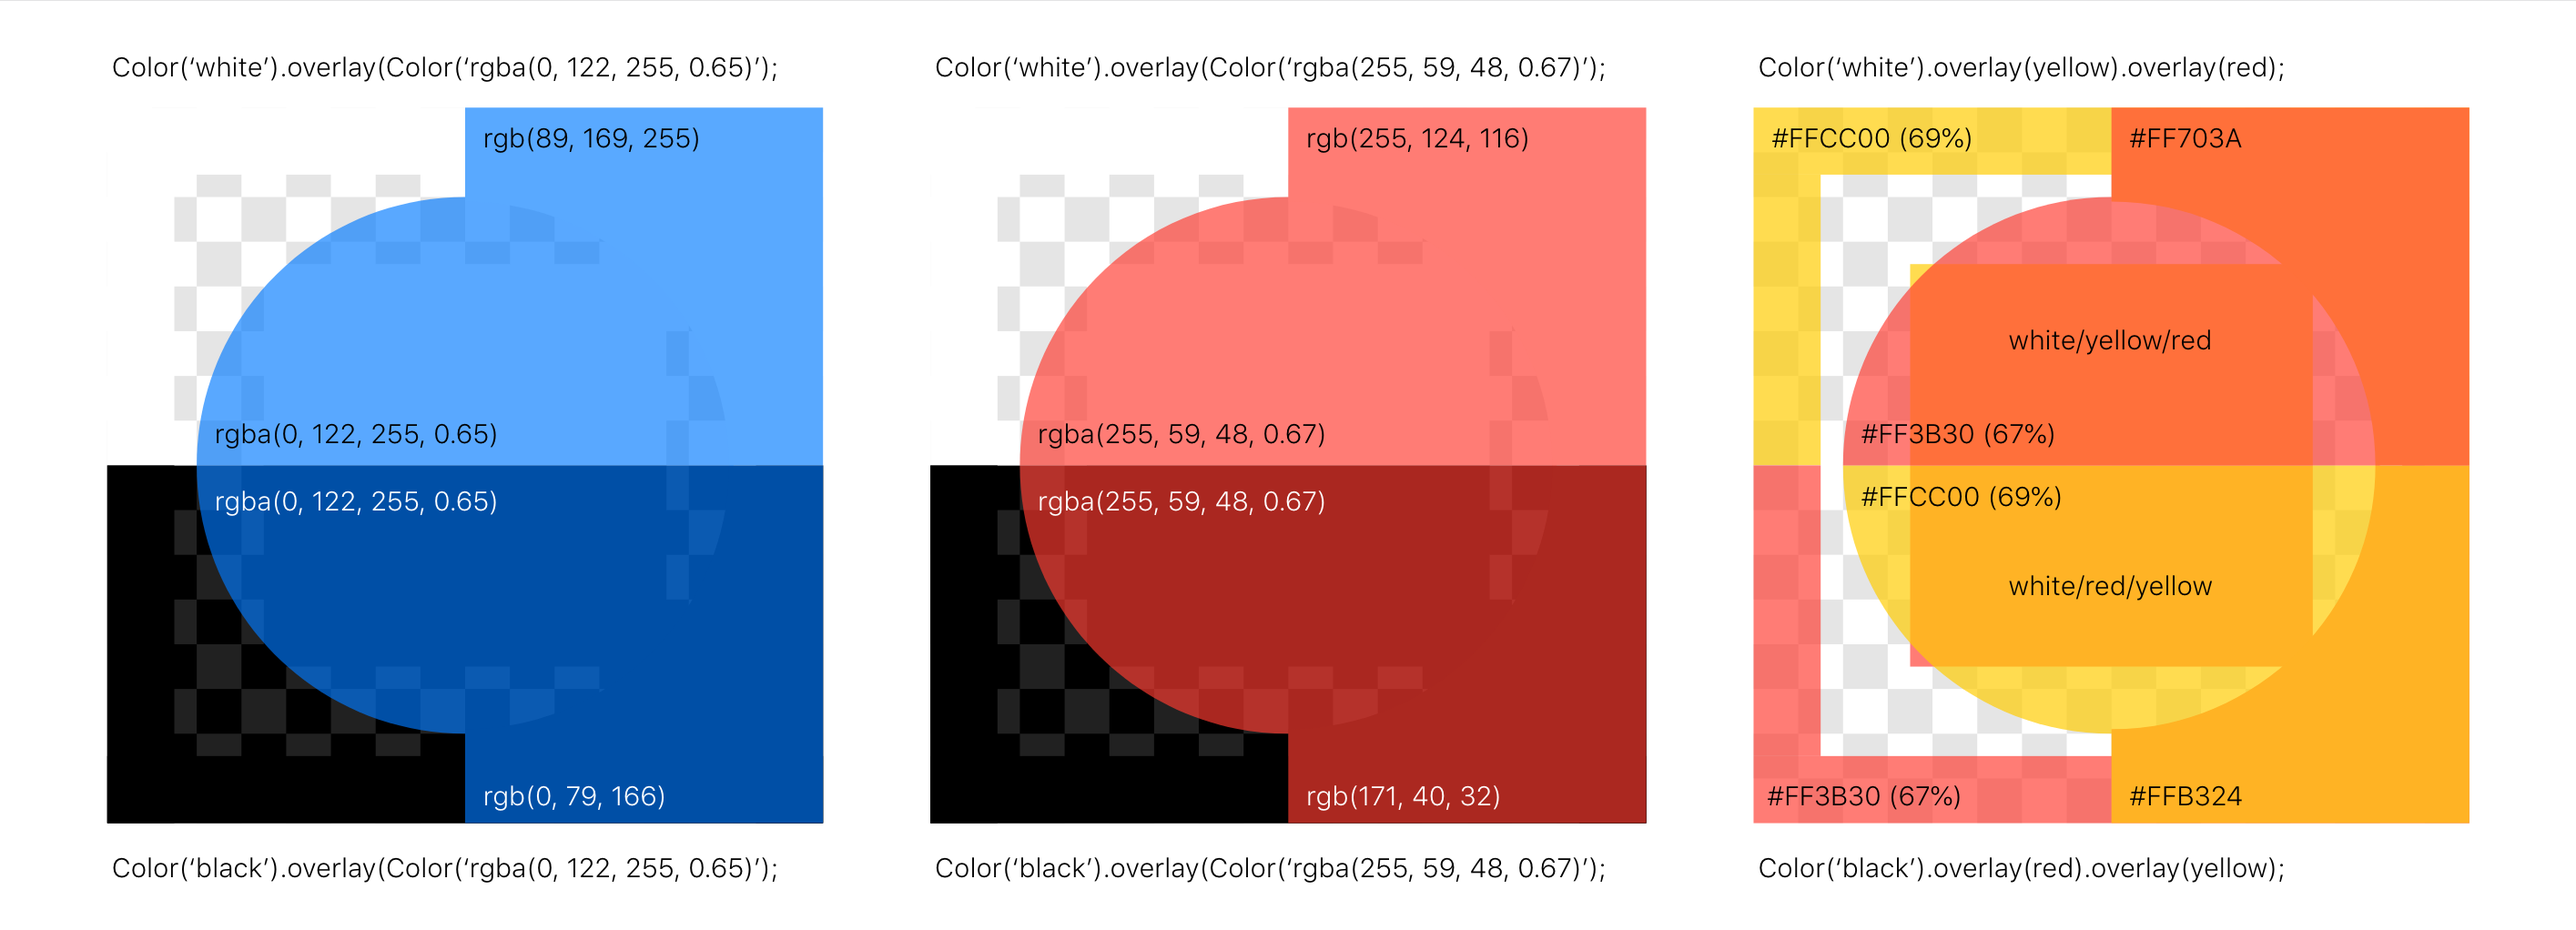
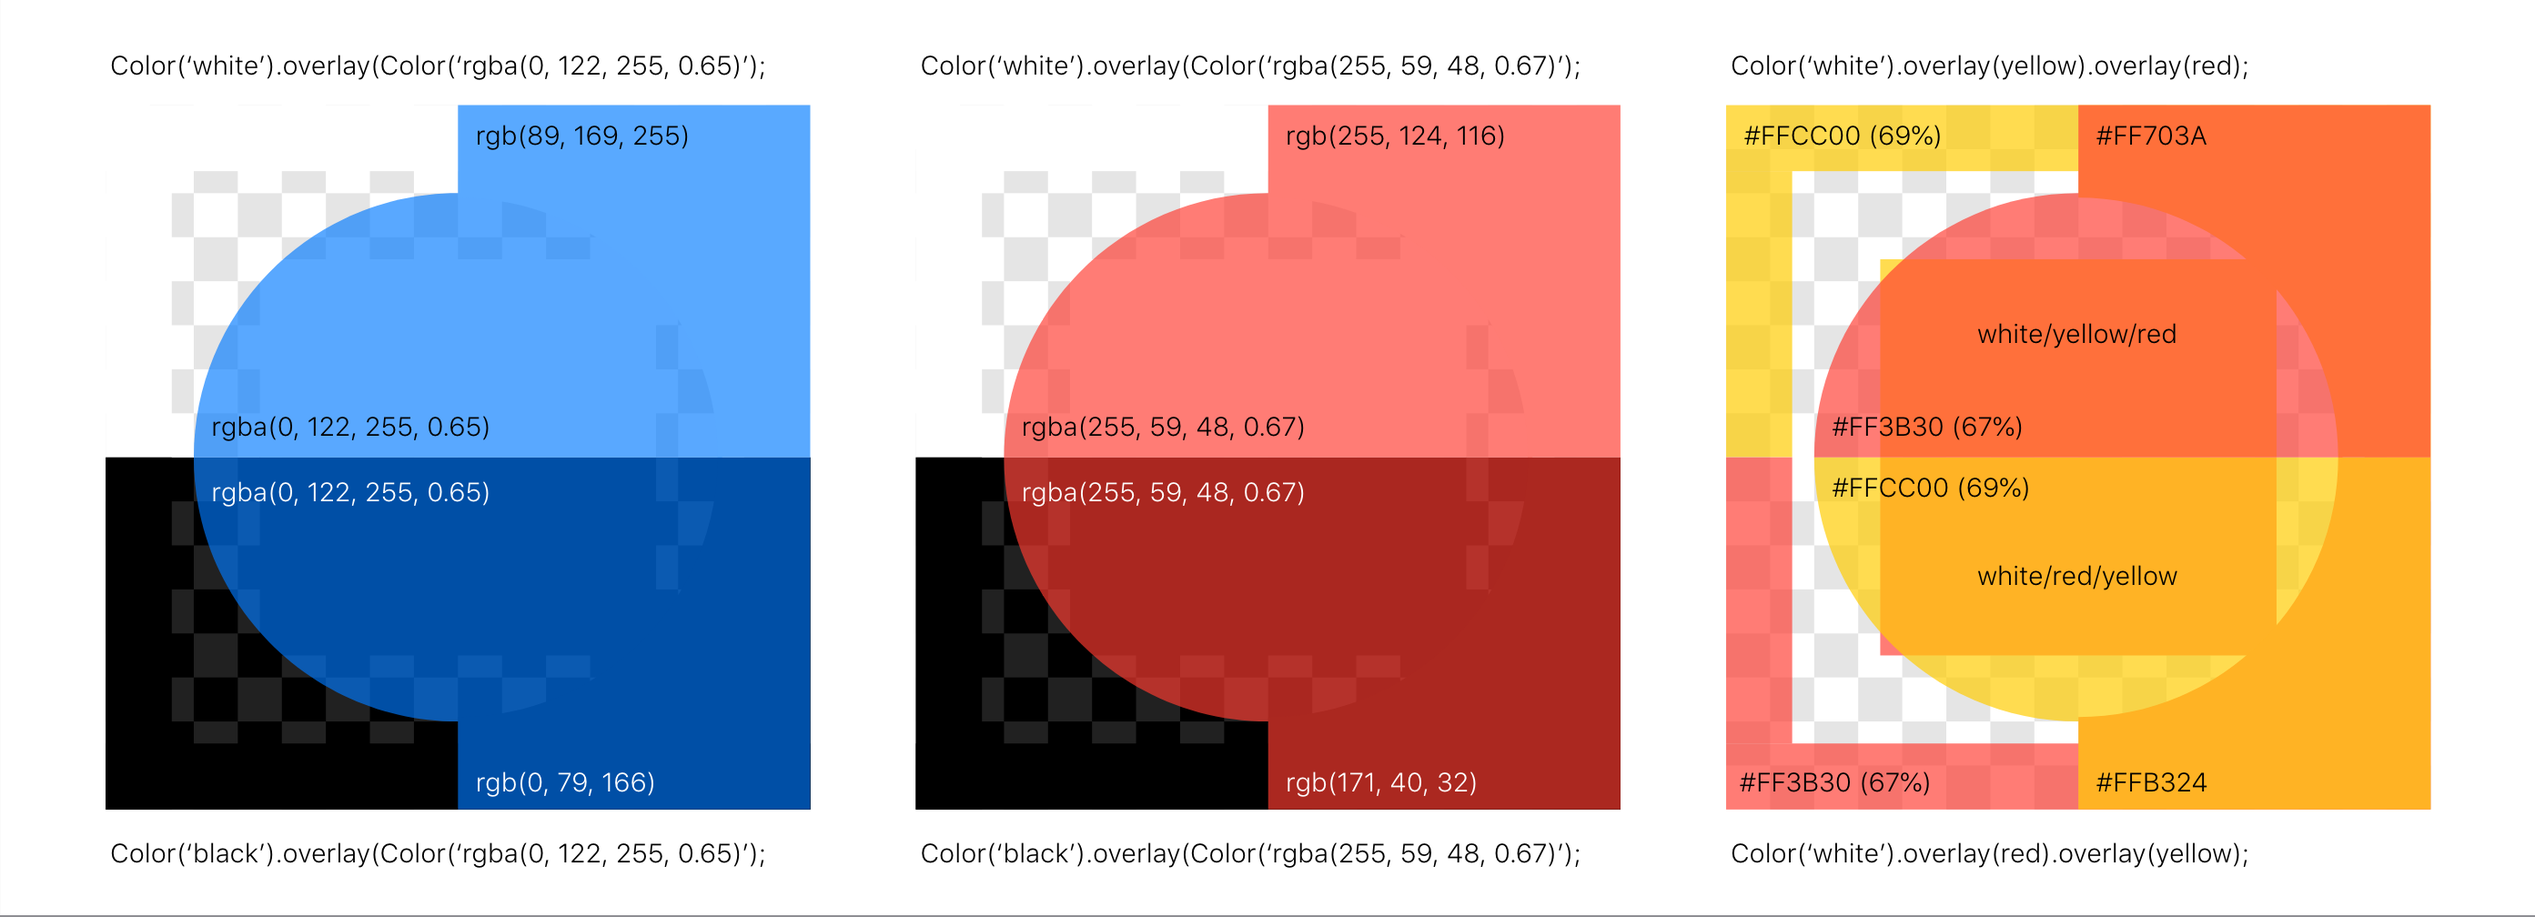
Edit readme

diff --git a/index.js b/index.js
@@ -390,14 +390,6 @@ Color.prototype = {
 		// alpha blending with gamma correction
 		// https://en.wikipedia.org/wiki/Alpha_compositing#Composing_alpha_blending_with_gamma_correction
 
-		if (typeof overlayColor === 'string') {
-			try {
-				overlayColor = Color(overlayColor);
-			} catch (error) {
-				console.log(error);
-			}
-		}
-
 		if (!overlayColor || !overlayColor.rgb) {
 			throw new Error('Overlay expected an instance of Color, but received an instance of ' + typeof overlayColor);
 		}

diff --git a/README.md b/README.md
@@ -121,37 +121,33 @@ color.green(100).grayscale().lighten(0.6)
 
 ### Overlay
 ```js
+Color(backgroundColor).overlay(Color(foregroundColor));
+```
+Implementation of Porter Duff source over compositing operator as per [W3C Compositing and Blending](https://www.w3.org/TR/compositing-1/#porterduffcompositingoperators_srcover).
+!(overlay illustration)[media/overlay.png]
+```js
 const transparentRed = 'rgba(255, 59, 48, 0.67)';
-const transparentBlue = 'rgba(0, 122, 255, 0.65)';
 const transparentYellow = 'rgb(255, 204, 0, 0.69)';
 
 Color('white').overlay(Color(transparentRed)); 
-// rgb(255, 255, 255) overlayed with rgba(255, 59, 48, 0.67) -> rgb(255, 124, 116)
+// White background overlayed with rgba(255, 59, 48, 0.67) -> rgb(255, 124, 116)
 
 Color('black').overlay(Color(transparentRed));
-// rgb(0, 0, 0) overlayed with rgba(255, 59, 48, 0.67) -> rgb(171, 40, 32)
-
-Color(transparentRed).contrast(Color('white')); // 3.547137959249039
-
-Color('white').overlay(Color(transparentRed)).contrast(Color('white')); // 2.508157178805863
-
-Color('black').overlay(Color(transparentRed)).contrast(Color('white')); // 6.893229382289893);
-
-Color('black').overlay(Color(transparentBlue)).rgb().string(0); // 'rgb(0, 79, 166)'
-
-Color('white').overlay(Color(transparentBlue)).rgb().string(0); // 'rgb(89, 169, 255)'
-
-Color(transparentBlue).contrast(Color('white')); // 4.016975780478911
-
-Color('white').overlay(Color(transparentBlue)).contrast(Color('white')); // 2.466814448364806
-
-Color('black').overlay(Color(transparentBlue)).contrast(Color('white')); // 7.847914944366607
-
+// Black background overlayed with rgba(255, 59, 48, 0.67) -> rgb(171, 40, 32)
+```
+Overlay returns a composite color that is an average of the background and foreground color weighted by the alpha values of each. 
+```js
+Color(transparentRed).contrast(Color('white')); // 3.5
+Color('white').overlay(Color(transparentRed)).contrast(Color('white')); // 2.5
+Color('black').overlay(Color(transparentRed)).contrast(Color('white')); // 6.9
+```
+Contrast results involving transparent colors are dependant on the background color. 
+```js
 Color('white').overlay(Color(transparentYellow)).overlay(Color(transparentRed)).hex(); // '#FF703A'
 
 Color('white').overlay(Color(transparentRed)).overlay(Color(transparentYellow)).hex() // '#FFB324'
 ```
-Implementation of Porter Duff source over compositing operator as per [W3C Compositing and Blending](https://www.w3.org/TR/compositing-1/#porterduffcompositingoperators_srcover).
+Overlay is chainable and sensitive to the order 
 
 ## Propers
 The API was inspired by [color-js](https://github.com/brehaut/color-js). Manipulation functions by CSS tools like Sass, LESS, and Stylus.
